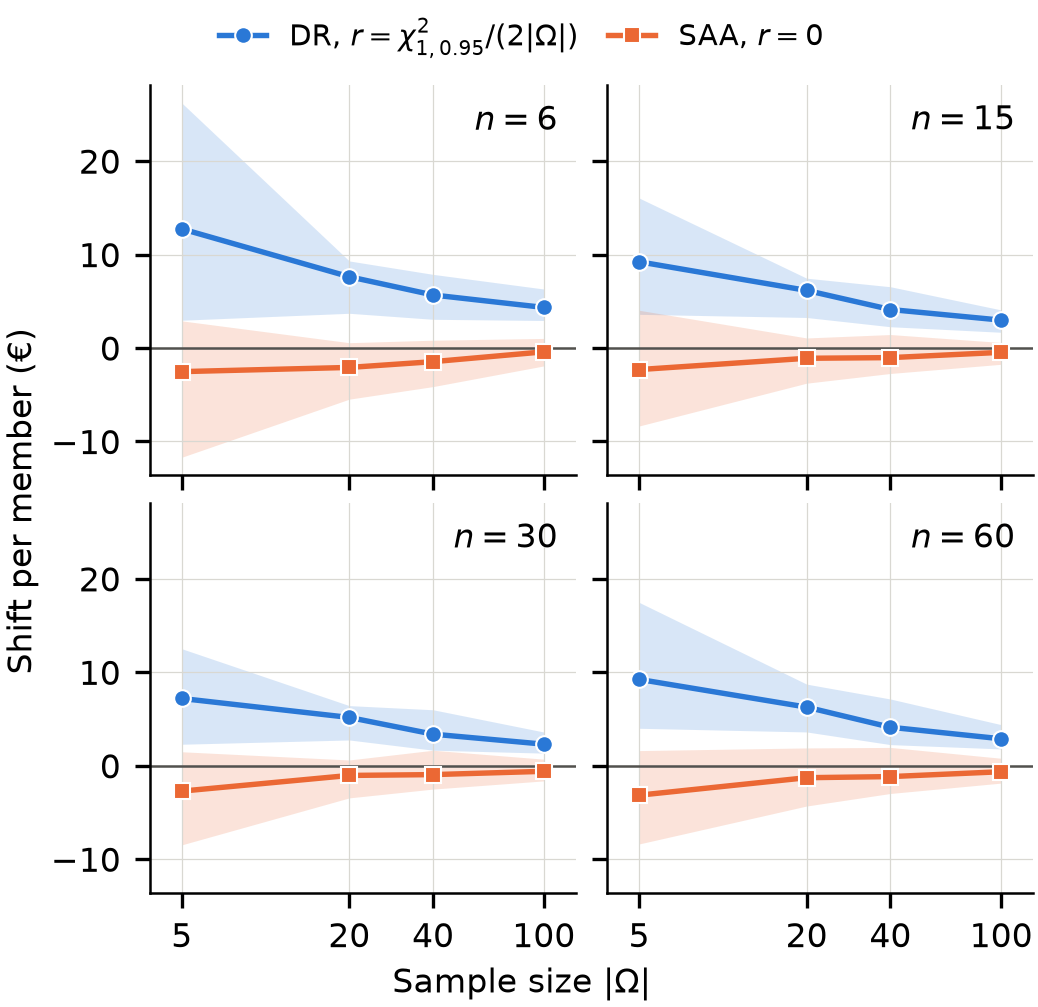
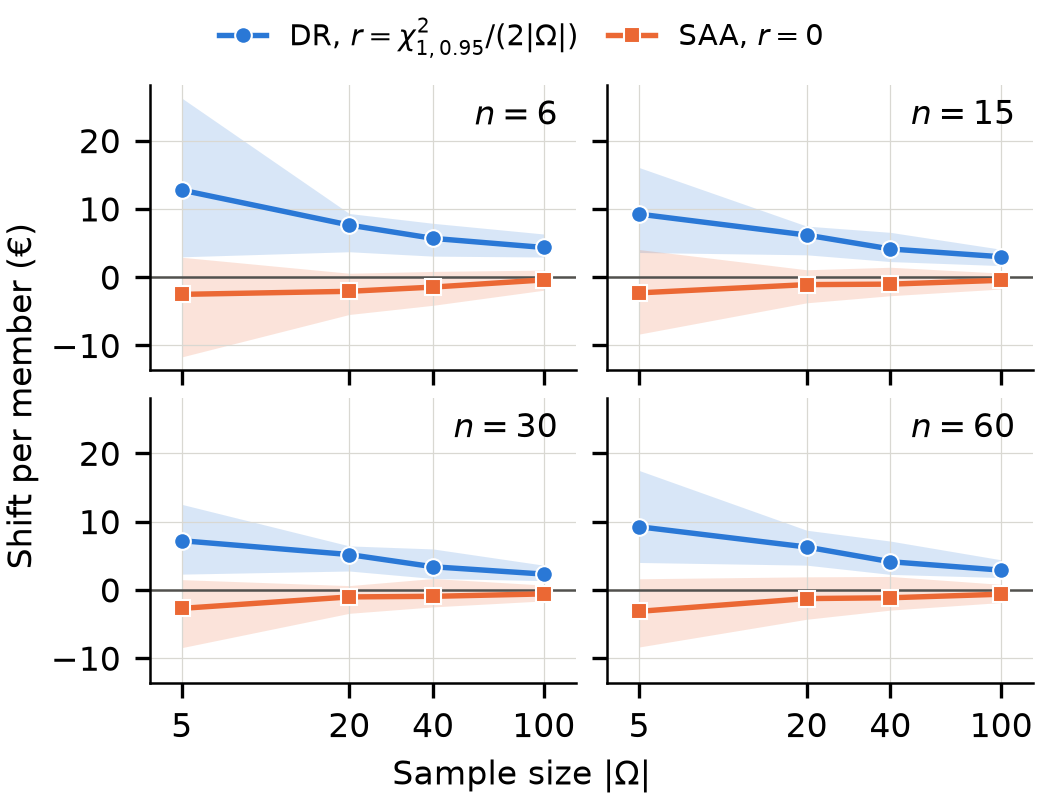
Regenerate the shift figure (2.7 in) and kl_tables.tex (shorter row labels)

diff --git a/ieee_owen/kl_tables.tex b/ieee_owen/kl_tables.tex
@@ -27,11 +27,11 @@ Coalition generation & 401 & $>3{,}600$ & $>3{,}600$ & $>3{,}600$ \\
 % flat: n=6: 4.0x, n=15: 4.1x, n=30: 5.9x, n=60: not reached / not run
 % ---- tab:oos (arithmetic means over the days; signed)
 % days per size: n=6: 31, n=15: 31, n=30: 31, n=60: 31; test scenarios: 500
-Days the budget holds, $r=0$ & 9 & 10 & 10 & 10 \\
-Days the budget holds, $r=0.096$ & 28 & 30 & 30 & 31 \\
+Days budget met, $r=0$ & 9 & 10 & 10 & 10 \\
+Days budget met, $r=0.096$ & 28 & 30 & 30 & 31 \\
 Shift per member, $r=0$ & $-$2.08 & $-$1.10 & $-$1.04 & $-$1.28 \\
 Shift per member, $r=0.096$ & 7.62 & 6.16 & 5.16 & 6.27 \\
-Cost of hedging [\% of $v^{\mathrm{DR}}(N)$] & 0.08 & 0.05 & 0.04 & 0.04 \\
+Cost of hedging (\%) & 0.08 & 0.05 & 0.04 & 0.04 \\
 % n=6: promised - delivered, mean EUR: r=0 +12.5, KL -45.7; cost of hedging 0.76 +- 0.03 EUR/day (0.229% of the delivered value, 0.078% of v^DR(N))
 %   r=0: budget holds on 9/31; by more than 1.96 s.e. of the test mean on 6, fails by more than that on 19, within it on 6; shortfall per member on the days it fails: mean 5.04, max 10.26 EUR
 %   KL: budget holds on 28/31; by more than 1.96 s.e. of the test mean on 25, fails by more than that on 1, within it on 5; shortfall per member on the days it fails: mean 1.85, max 2.29 EUR
